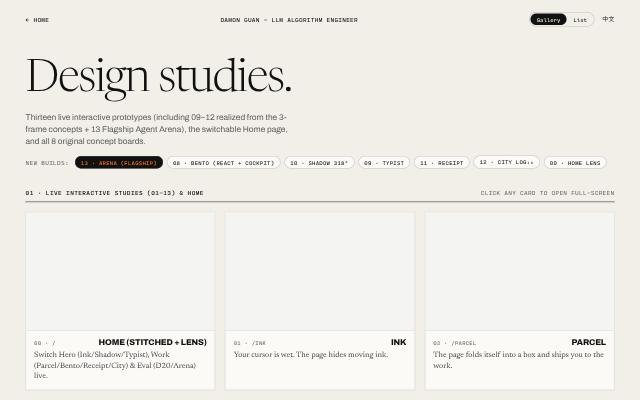
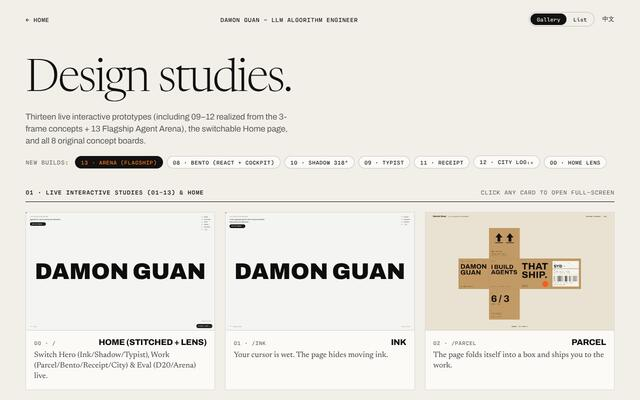
polish(home): phone pass, full section nav, fresh previews, quiet WebGL fallback
Claude-Session: https://claude.ai/code/session_01UouyL7YzeRJBzwTPWqp3BB

diff --git a/src/pages/Home.jsx b/src/pages/Home.jsx
@@ -5,6 +5,7 @@ import { notes } from '../notes.js';
 import InkHero from '../directions/ink/InkHero.jsx';
 import MoreWays from './MoreWays.jsx';
 import Evidence from '../directions/home-evidence/Evidence.jsx';
+import { hasWebGL2 } from '../engine/webgl.js';
 import './home.css';
 
 const WorkFilm = lazy(() => import('./WorkFilm.jsx'));
@@ -42,6 +43,18 @@ const NAV = [
   { href: '#contact', label: { en: 'Contact', zh: '联系' } },
 ];
 
+// The fixed bar lists every section; on phones it becomes a scrolling strip (see home.css).
+const BAR_NAV = [
+  { href: '#statement', label: { en: 'Statement', zh: '自述' } },
+  NAV[0],
+  NAV[1],
+  { href: '#evidence', label: { en: 'Evidence', zh: '证据' } },
+  NAV[2],
+  NAV[3],
+  { href: '#more', label: { en: 'More ways in', zh: '更多入口' } },
+  NAV[4],
+];
+
 const STATEMENT = {
   en: 'I train language agents, then measure whether they hold up on real work.',
   zh: '我训练语言智能体，再检验它们在真实工作中是否站得住。',
@@ -53,16 +66,7 @@ const reduced = () => window.matchMedia('(prefers-reduced-motion: reduce)').matc
 // their short static fallback, so there is nothing heavy to defer and no tall track to stand in for.
 let staticCache;
 const staticFilms = () => {
-  if (staticCache === undefined) {
-    let gl = null;
-    try {
-      gl = document.createElement('canvas').getContext('webgl');
-    } catch {
-      gl = null;
-    }
-    gl?.getExtension('WEBGL_lose_context')?.loseContext();
-    staticCache = reduced() || !gl || typeof IntersectionObserver === 'undefined';
-  }
+  if (staticCache === undefined) staticCache = reduced() || !hasWebGL2() || typeof IntersectionObserver === 'undefined';
   return staticCache;
 };
 
@@ -274,6 +278,14 @@ function Bar() {
   const [past, setPast] = useState(false);
   const [down, setDown] = useState(false);
   const [active, setActive] = useState('');
+  const navRef = useRef(null);
+  // on the phone strip, keep the section in view centred
+  useEffect(() => {
+    const nav = navRef.current;
+    const link = nav?.querySelector('[aria-current]');
+    if (!link || nav.scrollWidth <= nav.clientWidth) return;
+    nav.scrollTo({ left: link.offsetLeft - (nav.clientWidth - link.offsetWidth) / 2, behavior: reduced() ? 'auto' : 'smooth' });
+  }, [active]);
   useEffect(() => {
     // it steps aside while you read downwards and comes back when you scroll up
     let lastY = window.scrollY;
@@ -291,7 +303,7 @@ function Bar() {
       (entries) => entries.forEach((e) => e.isIntersecting && setActive(e.target.id)),
       { rootMargin: '-50% 0px -50% 0px' },
     );
-    ['statement', 'work', 'evaluate', 'path', 'notes', 'contact'].forEach((id) => {
+    BAR_NAV.map((item) => item.href.slice(1)).forEach((id) => {
       const el = document.getElementById(id);
       if (el) io.observe(el);
     });
@@ -305,16 +317,21 @@ function Bar() {
       <a className="h-bar-name" href="#top">
         Damon Guan
       </a>
-      <nav aria-label={t({ en: 'Sections', zh: '章节' })}>
-        {NAV.map((item) => (
+      <nav ref={navRef} aria-label={t({ en: 'Sections', zh: '章节' })}>
+        {BAR_NAV.map((item) => (
           <a key={item.href} href={item.href} aria-current={active === item.href.slice(1) || undefined}>
             {t(item.label)}
           </a>
         ))}
-        <button type="button" onClick={() => setLang(lang === 'en' ? 'zh' : 'en')} aria-label="Switch language">
-          {lang === 'en' ? '中文' : 'EN'}
-        </button>
       </nav>
+      <button
+        type="button"
+        className="h-bar-lang"
+        onClick={() => setLang(lang === 'en' ? 'zh' : 'en')}
+        aria-label="Switch language"
+      >
+        {lang === 'en' ? '中文' : 'EN'}
+      </button>
     </header>
   );
 }

diff --git a/src/pages/home.css b/src/pages/home.css
@@ -656,8 +656,8 @@ body:has(.note) {
   display: flex;
   justify-content: space-between;
   align-items: center;
-  gap: 16px;
-  padding: 18px var(--gutter);
+  gap: 22px;
+  padding: 3px var(--gutter);
   /* solid, so scrolling text never runs through the links; every section below shares --bg */
   background: var(--bg);
   border-bottom: 1px solid var(--rule);
@@ -674,6 +674,8 @@ body:has(.note) {
   pointer-events: auto;
 }
 .h-bar-name {
+  flex: none;
+  padding: 13px 0;
   font-weight: 750;
   font-size: 16px;
   letter-spacing: -0.02em;
@@ -682,10 +684,26 @@ body:has(.note) {
   display: flex;
   align-items: center;
   gap: 22px;
+  min-width: 0;
+  margin-left: auto;
+  overflow-x: auto;
+  scrollbar-width: none;
+}
+.h-bar nav::-webkit-scrollbar {
+  display: none;
+}
+.h-bar nav a,
+.h-bar-lang {
+  flex: none;
+  padding: 15px 0;
   font-family: var(--mono);
   font-size: 11px;
   letter-spacing: 0.04em;
   text-transform: uppercase;
+  white-space: nowrap;
+}
+.h-bar-lang {
+  flex: none;
 }
 .h-bar nav a[aria-current] {
   text-decoration: underline;
@@ -766,14 +784,37 @@ body:has(.note) {
   .h-bar-name {
     display: none;
   }
+  /* phones: every section in a strip that scrolls sideways; the section in view is centred and underlined */
   .h-bar {
-    padding: 14px var(--gutter);
+    padding: 0;
+    gap: 0;
   }
   .h-bar nav {
-    width: 100%;
-    justify-content: space-between;
-    gap: 10px;
-    font-size: 10px;
+    flex: 1;
+    gap: 0;
+    margin-left: 0;
+    padding: 0 calc(var(--gutter) - 10px);
+    -webkit-mask-image: linear-gradient(90deg, transparent, #000 14px, #000 calc(100% - 22px), transparent);
+    mask-image: linear-gradient(90deg, transparent, #000 14px, #000 calc(100% - 22px), transparent);
+  }
+  .h-bar nav a,
+  .h-bar-lang {
+    display: inline-flex;
+    align-items: center;
+    min-height: 46px;
+    padding: 0 10px;
+  }
+  .h-bar nav a:not([aria-current]) {
+    color: color-mix(in srgb, var(--ink) 62%, transparent);
+  }
+  .h-bar nav a[aria-current] {
+    text-decoration-thickness: 2px;
+  }
+  .h-bar-lang {
+    justify-content: center;
+    min-width: 52px;
+    padding: 0 var(--gutter) 0 12px;
+    border-left: 1px solid var(--rule);
   }
 }
 
@@ -928,4 +969,56 @@ body:has(.note) {
 .home .h-workfilm .p-work:not(.is-in) .h-card:focus-visible .p-card-in {
   opacity: 1;
   transform: none;
+}
+
+/* ---------- phones: tap targets, type and rhythm (finishing pass) ---------- */
+@media (max-width: 760px) {
+  .h-section {
+    padding-top: clamp(84px, 13vh, 128px);
+  }
+  /* hero: section list, "Get in touch" and "Scroll" reach 44px without moving the composition */
+  .home .ink-nav li {
+    margin-bottom: 0;
+  }
+  .home .ink-nav a,
+  .home .ink-nav button {
+    display: inline-flex;
+    align-items: center;
+    min-height: 44px;
+  }
+  .home .ink-pill {
+    min-height: 44px;
+    padding: 0 16px 0 18px;
+  }
+  .home .ink-bl {
+    padding: 15px 0;
+    bottom: 9px;
+  }
+  .h-lens-dock {
+    padding: 0;
+  }
+  .h-lens-dock-title {
+    min-height: 44px;
+    padding: 0 16px;
+    font-size: 11px;
+  }
+  .home .d20-seed button {
+    min-height: 44px;
+    padding: 0 8px;
+  }
+  .h-email {
+    padding: 4px 0;
+  }
+  .h-foot {
+    gap: 0 24px;
+    padding-top: 12px;
+  }
+  .h-foot a {
+    display: inline-flex;
+    align-items: center;
+    min-height: 44px;
+  }
+  .h-door-line {
+    font-size: 13px;
+  }
 }

diff --git a/public/lab/paper/index.html b/public/lab/paper/index.html
@@ -58,6 +58,14 @@ a:focus-visible{outline:2px solid var(--ink);outline-offset:3px}
 .big a{display:inline-flex;flex-direction:column;align-self:flex-start}
 .big a span:first-child{font-weight:850;font-size:clamp(26px,min(4cqw,6cqh),52px);letter-spacing:-.04em;line-height:1;padding-bottom:4px;border-bottom:2px solid var(--ink)}
 .big a .mono{color:var(--muted);margin-top:8px;text-transform:none;letter-spacing:.02em}
+/* the last sheet carries the same scale as the first: a large title, then the two columns set big enough to fill it */
+.p2 .disp{font-size:min(19cqw,26cqh);margin-top:6cqh;margin-left:-.04em}
+.p2 .cols{margin-top:auto;padding-top:5cqh}
+.p2 .cols .rows li{min-height:clamp(52px,13cqh,112px)}
+.p2 .cols .rows .nm{font-size:clamp(16px,min(2.8cqw,4.2cqh),34px)}
+.p2 .cols .rows .m{font-size:clamp(20px,min(4cqw,6cqh),52px)}
+.p2 .big{gap:clamp(12px,4cqh,36px)}
+.p2 .big a span:first-child{font-size:clamp(26px,min(6cqw,9cqh),76px)}
 .end{margin-top:3cqh;display:flex;justify-content:space-between;gap:16px;border-top:1px solid var(--hair);padding-top:12px}
 @container (max-width:640px){
   .pr{grid-template-columns:1fr;gap:12px}
@@ -111,7 +119,7 @@ html.static .pg{position:relative;visibility:visible;height:max(640px,calc(100sv
   </div></section>
   <section class="pg p2" aria-label="Research and contact"><div class="in">
     <div class="top"><span class="lbl mono">03 &mdash; Research &amp; contact</span><span class="meta mono">Last sheet</span></div>
-    <h2 class="disp" style="margin-top:3cqh">Contact</h2>
+    <h2 class="disp">Contact</h2>
     <div class="cols">
       <div><h3 class="mono">Research</h3>
         <ul class="rows">

diff --git a/src/directions/d20/D20Chapter.jsx b/src/directions/d20/D20Chapter.jsx
@@ -1,6 +1,7 @@
 import { useEffect, useMemo, useRef, useState } from 'react';
 import { useLang } from '../../i18n.jsx';
 import { createStage } from '../../engine/stage.js';
+import { hasWebGL2 } from '../../engine/webgl.js';
 import { createTimeline } from '../../engine/timeline.js';
 import { failSteps, initialSeed, newSeed, pct, rollsFromSeed, seedLabel, STEPS } from './dice.js';
 import { buildD20 } from './Scene.js';
@@ -64,7 +65,7 @@ function useRows() {
 export default function D20Chapter({ id = 'evaluate', head = null }) {
   const { t, lang } = useLang();
   const [mode, setMode] = useState(() =>
-    window.matchMedia('(prefers-reduced-motion: reduce)').matches ? 'static' : 'film',
+    window.matchMedia('(prefers-reduced-motion: reduce)').matches || !hasWebGL2() ? 'static' : 'film',
   );
   const [seed, setSeed] = useState(initialSeed);
   const rolls = useMemo(() => rollsFromSeed(seed), [seed]);

diff --git a/src/engine/webgl.js b/src/engine/webgl.js
@@ -1,0 +1,24 @@
+// One probe for the whole page: can this browser make a WebGL context at all? Asking up front lets
+// the films and the ink hero go straight to their static fallbacks instead of letting three.js log
+// "could not create a WebGL context". three.js (r163+) needs WebGL2; the ink hero needs WebGL1.
+let cache;
+function probe() {
+  if (cache) return cache;
+  cache = { webgl2: false, webgl: false };
+  try {
+    const canvas = document.createElement('canvas');
+    let gl = canvas.getContext('webgl2');
+    if (gl) cache.webgl2 = cache.webgl = true;
+    else {
+      gl = canvas.getContext('webgl');
+      cache.webgl = Boolean(gl);
+    }
+    gl?.getExtension('WEBGL_lose_context')?.loseContext();
+  } catch {
+    // no WebGL
+  }
+  return cache;
+}
+
+export const hasWebGL2 = () => probe().webgl2;
+export const hasWebGL = () => probe().webgl;

diff --git a/src/engine/useFilm.js b/src/engine/useFilm.js
@@ -1,6 +1,7 @@
 import { useEffect, useRef, useState } from 'react';
 import { createStage } from './stage.js';
 import { createTimeline } from './timeline.js';
+import { hasWebGL2 } from './webgl.js';
 
 // Wires a canvas and a scroll track to a film: build(stage, root) -> { frame(p), resize?(), dispose?() }.
 // Falls back to 'static' with reduced motion or without WebGL.
@@ -11,7 +12,7 @@ export function useFilm(build) {
   const [mode, setMode] = useState('film');
 
   useEffect(() => {
-    if (window.matchMedia('(prefers-reduced-motion: reduce)').matches) {
+    if (window.matchMedia('(prefers-reduced-motion: reduce)').matches || !hasWebGL2()) {
       setMode('static');
       return undefined;
     }

diff --git a/src/directions/ink/ink.js b/src/directions/ink/ink.js
@@ -1,3 +1,4 @@
+import { hasWebGL } from '../../engine/webgl.js';
 // Ink reveal: the pointer paints a gooey trail that uncovers a moving ink layer under the page.
 // Raw WebGL, no libraries. The ink is a local video when /ink/ink.mp4 exists, otherwise generated.
 const TRAIL_SCALE = 0.25;
@@ -91,6 +92,7 @@ export function initInk(hero) {
   const canvas = $('canvas');
   const videos = [...hero.querySelectorAll('video')];
   const cursor = document.querySelector('[data-ink-cursor]');
+  if (!hasWebGL()) return () => {};
   const gl = canvas.getContext('webgl', { premultipliedAlpha: true, alpha: true, antialias: false });
   if (!gl) return () => {};
   gl.getExtension('OES_standard_derivatives');

diff --git a/src/directions/home-evidence/evidence.css b/src/directions/home-evidence/evidence.css
@@ -138,6 +138,9 @@
   .ev-lead {
     display: block;
   }
+  .ev-title {
+    font-size: clamp(56px, 18.5vw, 76px);
+  }
   .ev-intro {
     margin-top: 20px;
   }
@@ -155,7 +158,7 @@
     padding: 12px 12px 16px;
   }
   .ev-fig {
-    font-size: clamp(40px, 12.4vw, 60px);
+    font-size: clamp(36px, 11vw, 56px);
     padding-top: 22px;
   }
   .ev-source {

diff --git a/docs/reviews/2026-11-15-site-qa.md b/docs/reviews/2026-11-15-site-qa.md
@@ -55,7 +55,7 @@ Checked, no change needed: on `/lab/agent/` at 390x844, the "reading SupChain-Be
 
 - ~~**Concept boards**~~ fixed: see Performance below.
 - **`/d20` standalone** opens on a near-empty first screen with "Scroll ↓". At 1440x900 the headline starts below the fold (`src/directions/d20/d20.css:394`, `.d20-spacer`). This is intentional: the test page leaves room to enter the pin. Recorded here, not counted as a defect.
-- **`/lab/paper/` desktop Contact sheet** still has a large empty band. This is known from HANDOFF and was not changed.
+- ~~**`/lab/paper/` desktop Contact sheet**~~ rebalanced in the finishing pass below.
 - **Home on phones, mid-scroll**: like any fixed button, the dock covers whatever passes beneath it while scrolling. Nothing is covered at rest at the end of a section.
 
 ## Performance
@@ -80,4 +80,15 @@ Changes:
 - Concept boards: `public/lab/concepts/fit.css` and `fit.js` are linked from all 8 boards, and the viewport meta is now `device-width`. The board is scaled by `min(w/1600, max(h/1000, 0.45))` and centred, and the scale is recomputed on resize. A short window keeps 0.45 and scrolls vertically instead. A narrow phone fits the width with no horizontal scroll. The drawings are unchanged.
 
 Verified: a scroll-through contact sheet at 1440x900 (hero, Work, D20, Path, Contact). Clicking the #work and #evaluate nav links on a fresh page lands each chapter at top = 0. Reduced motion and no-WebGL both render the static Parcel and D20 fallbacks. The concept boards were checked at 1440x900, 390x844 and 1200x400. There were no console errors except THREE's "could not create a WebGL context" warnings under `--disable-webgl`, which come from the films' own no-WebGL path.
+
+## Finishing pass (2026-11-16)
+
+Checked against `vite preview` in headless Chromium (SwiftShader), at 390x844, 360x640 and 1440x900, with WebGL on and with `--disable-webgl --disable-3d-apis`.
+
+- **Home on phones** (`src/pages/home.css`, `evidence.css`): every link and button on `/` at 360 and 390 is now at least 44px tall (hero section list, "Get in touch", "Scroll", the bar, "Studio Lens +", d20 "Re-roll", the email, footer links). Short words such as "Work" are under 44px wide but 44px tall. The "Evidence" title no longer runs to the edge at 360 (`clamp(56px, 18.5vw, 76px)`), and the board's figures are a step smaller, so all eight fit in two columns. Section top padding on phones dropped from 20vh to 13vh. "More ways in" lines are now 13px. At the end of the page the dock sits below the footer; mid-scroll it still passes over content, as any fixed button does.
+- **Top bar** (`Home.jsx` `BAR_NAV`): lists Statement, Work, Evaluate, Evidence, Path, Notes, More ways in, Contact. On desktop they fit on one line. On phones the bar is a sideways-scrolling strip: the section in view is underlined and centred, and the language button stays pinned at the right. Clicking Work, Evaluate, Evidence and More ways in on a fresh page lands each section at top = 0 at 1440 and 390; Contact stops at the page end. The hero's own section list is unchanged.
+- **More ways in previews** (`src/pages/more/*.jpg`): re-captured from the current pages at 1280x800, saved at 640x400, quality 74, 20–29 kB each. `/lab` was captured after its preview frames had loaded.
+- **WebGL off** (`src/engine/webgl.js`): one cached probe (`webgl2`, then `webgl`). `useFilm`, the d20 chapter and the home `Deferred` wrapper go straight to their static fallbacks when there is no WebGL2 (three.js needs it), and the ink hero skips its canvas without WebGL. With WebGL off, `/`, `/d20`, `/parcel`, `/descent`, `/rollout` and `/ink` log no console errors (before: three "could not create a WebGL context" errors on `/`). With WebGL on, the same routes log no errors and the films run as before.
+- **`/lab/paper/` Contact sheet**: the title now uses the Statement sheet's scale (`min(19cqw, 26cqh)`), and the research rows and the GitHub/LinkedIn links are larger. The empty band at 1440x900 is about 180px tall, down from about 330px. Handoff at rest (mesh over DOM, compared with the mesh hidden), sheet area: mean difference 1.6/255 at 1440 and 1.4/255 at 390, max 7/255.
+- No horizontal scroll at 360, 390 or 1440. `npx eslint .` and `npm run build` pass.
 

diff --git a/docs/HANDOFF.md b/docs/HANDOFF.md
@@ -14,10 +14,11 @@ Work stopped because the 5-hour usage window reached Damon's stop line (62% at t
 
 ### Known open items
 
-- "More ways in" previews are screenshots (`src/pages/more/*.jpg`) and will go stale as studies change.
-- The fixed top bar does not list Evidence or More ways in.
-- With WebGL off, three.js logs "could not create a WebGL context" (fallbacks still render).
-- Parcels phone cartons face front (flatter); paper's desktop Contact page has an empty band; `/d20` opens on a near-empty "Scroll ↓" screen by design.
+The finishing pass of 2026-11-16 (phone polish, full section bar, fresh previews, quiet WebGL fallback, paper Contact) is written up in `docs/reviews/2026-11-15-site-qa.md`, "Finishing pass".
+
+
+- Parcels phone cartons face front (flatter); `/d20` opens on a near-empty "Scroll ↓" screen by design.
+- "More ways in" previews were re-captured on 2026-11-16; they are still static screenshots and need re-capturing when a study changes.
 - Nothing checked on a real GPU, Safari or a physical phone.
 - Some history contains automatic "wip" snapshot commits (made to satisfy a commit-on-stop hook while agents were mid-work); the final state is clean.
 
